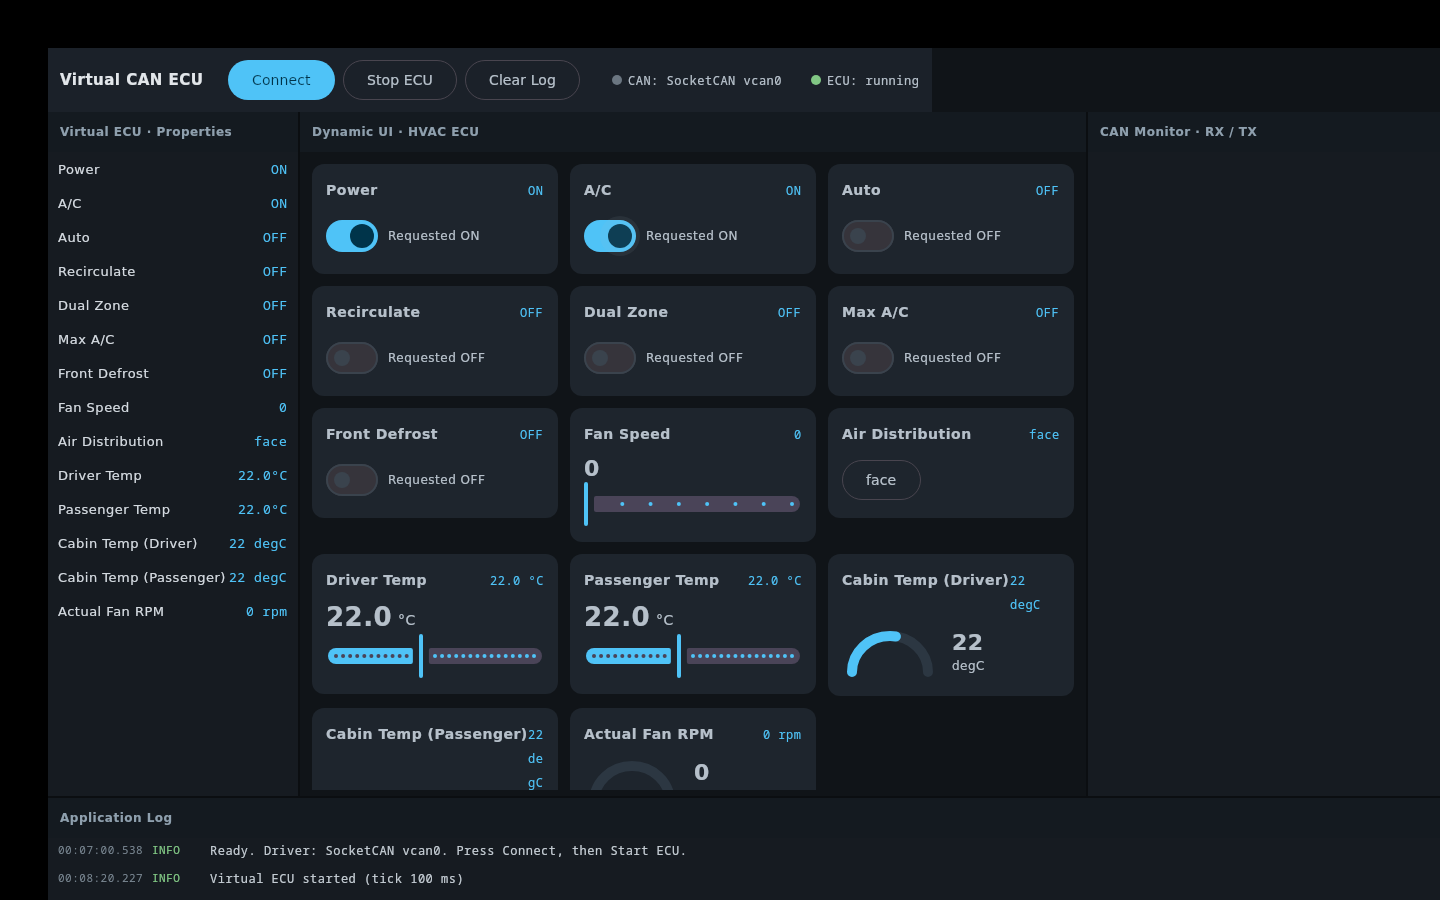
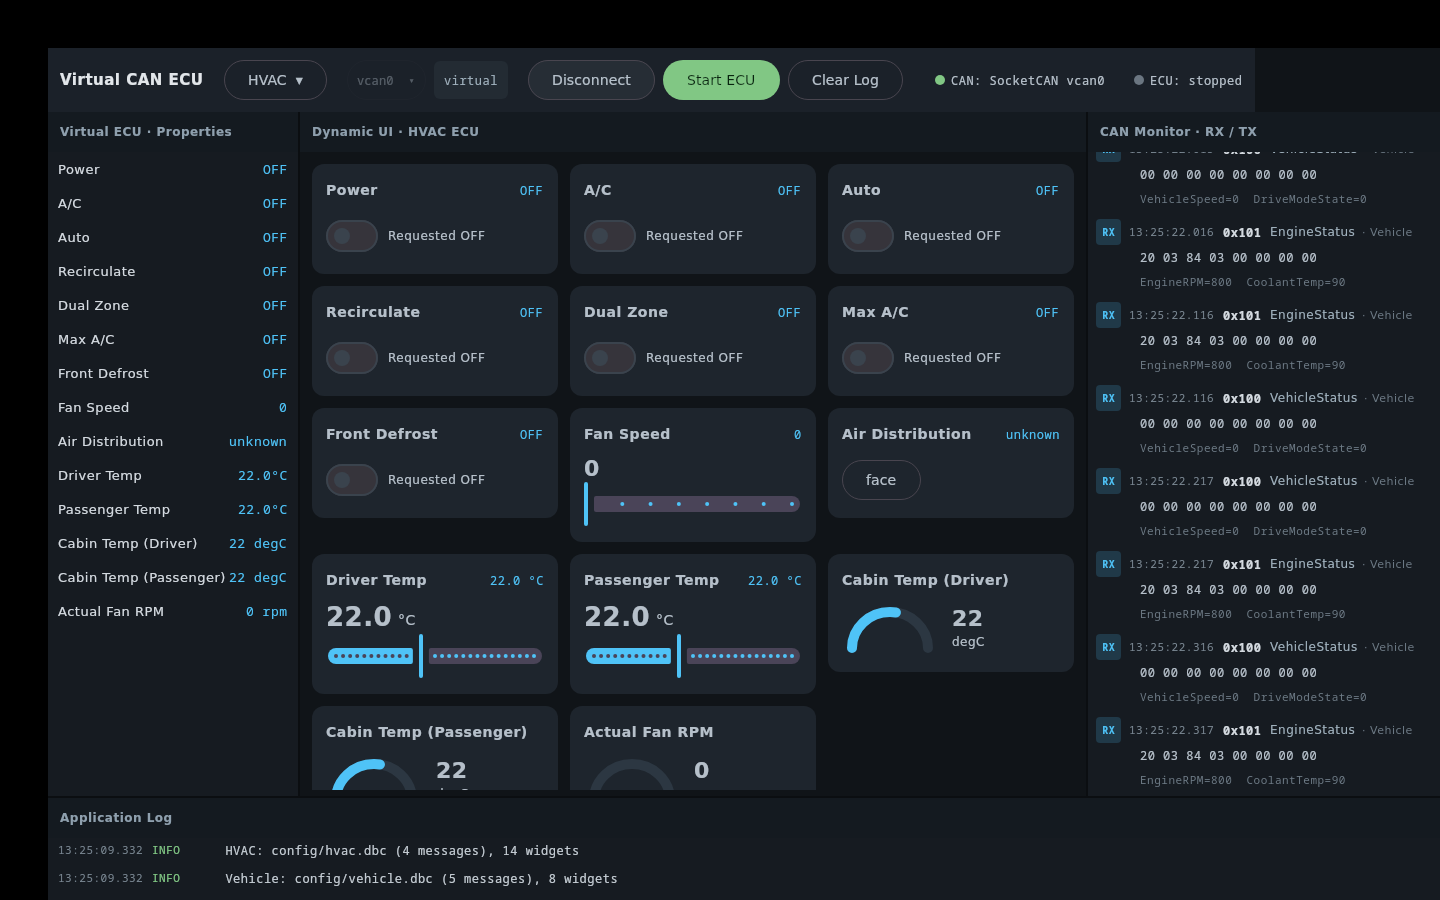
docs: refresh screenshot and add a Roadmap / TODO section
New screenshot shows the current UI (profile switcher, bus selector, read-only
bitrate chip) with the Vehicle ECU's live telemetry decoded in the global CAN
monitor while viewing HVAC. Adds a TODO checklist (license, Windows/Pi on-device
tests, packaging, per-ECU toggles, CAN-FD, more profiles).

diff --git a/README.md b/README.md
@@ -19,6 +19,9 @@ another `(dbc, yaml)` pair in `AppConfig.PROFILES`.
 
 ![screenshot](docs/screenshot.png)
 
+*Viewing the HVAC ECU while the Vehicle ECU runs concurrently — its live
+telemetry is decoded and tagged in the global CAN monitor (right).*
+
 ## Architecture
 
 Layered and independent: only `DbcService` knows dbcppp, only the drivers know
@@ -264,3 +267,17 @@ you only need a **JDK 17+** to run — no C++ toolchain.
   CAN only (8-byte frames) — no CAN-FD.
 - Configuration is hardcoded in `config/AppConfig.kt` (no file dialogs / project
   management) — by design for the MVP.
+
+## Roadmap / TODO
+
+- [ ] Add a `LICENSE` (MIT / Apache-2.0) for the first public release.
+- [ ] Windows: on-device PCAN-USB run test (DLLs are cross-built + PE-validated;
+      needs a Windows box with a PEAK adapter).
+- [ ] aarch64 / Pi: build the JNI lib on-device and run (dbcppp is already
+      prebuilt for aarch64).
+- [ ] Package as Deb / AppImage bundling the native libs (standalone install).
+- [ ] Per-ECU Connect / Start toggles (today all ECUs start/stop together).
+- [ ] Editable / custom CAN interface name (today: a dropdown of detected devices).
+- [ ] CAN-FD support (today: classic 8-byte frames only).
+- [ ] Manual per-message "Send" for bring-up testing.
+- [ ] More ECU profiles (Cluster, BCM, Seats, …) — each just a `(dbc, yaml)` pair.
